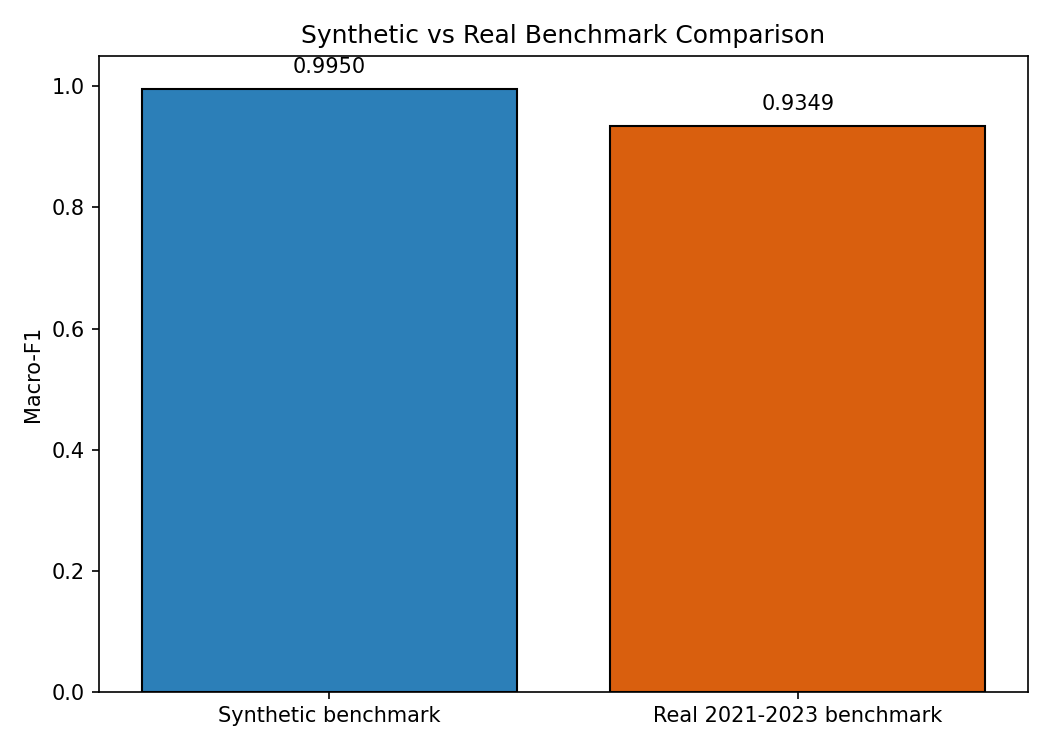
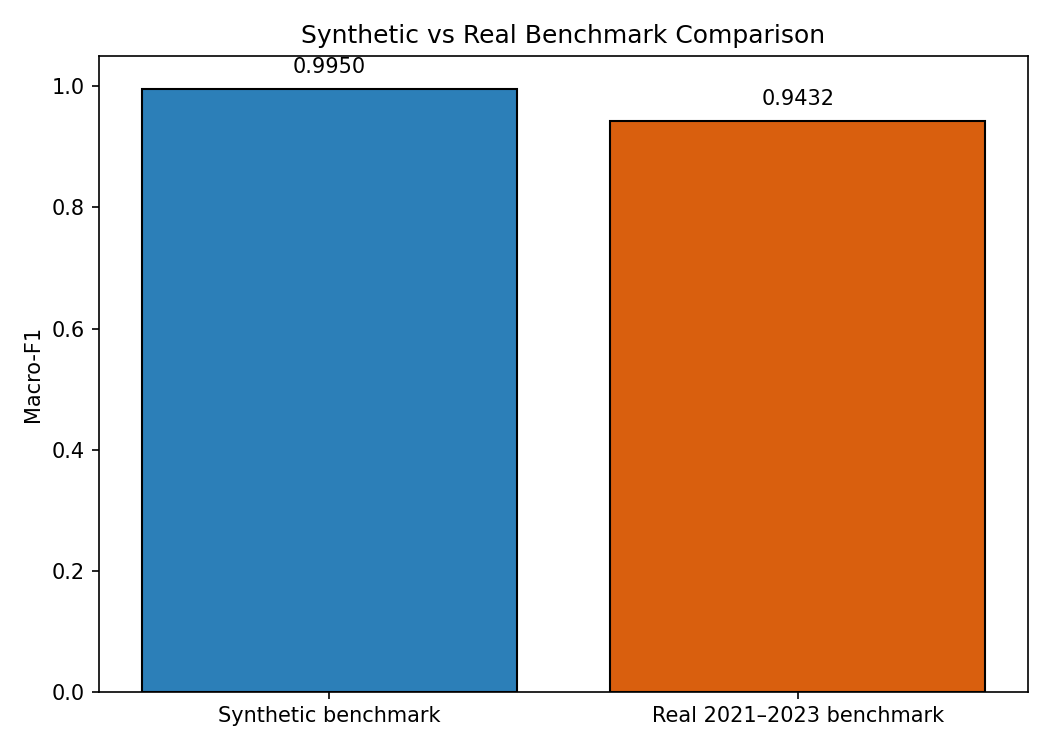
Update the benchmark narrative after the real calibration refresh
The real calibration refresh improved the tracked benchmark metrics and changed
both the temperature value and the synthetic-vs-real comparison summary. This
updates the README, proposal, and comparison artifacts so the public story
matches the newly calibrated benchmark instead of the stale pre-refresh values.

Constraint: The submission narrative must match the exact tracked metrics and comparison artifacts after every benchmark refresh
Rejected: Leave the old 0.9349 comparison numbers in place | would drift immediately from the current tracked evidence
Confidence: high
Scope-risk: narrow
Reversibility: clean
Directive: Any time calibration or benchmark metrics change, refresh models/benchmark_comparison.json and the proposal sections that quote Macro-F1, High Risk F1, and temperature
Tested: source .venv/bin/activate && python - <<'PY' ... benchmark summary sanity check ... PY; source .venv/bin/activate && pytest -q tests/test_labeling.py tests/test_model_training.py tests/test_split.py tests/test_leakage_guard.py tests/test_diagnostics.py tests/test_onnx_parity.py; source .venv/bin/activate && python -m nbconvert --to notebook --execute inference.ipynb --output /tmp/inference-executed.ipynb; python3 -m compileall src tests scripts; git diff --check
Not-tested: Human review of the updated narrative tone against actual judge preferences

Changed region(s): [[0.579, 0.1227, 0.9448, 0.184], [0.7314, 0.92, 0.8838, 0.9813], [0.6095, 0.92, 0.701, 0.9813]]

diff --git a/README.md b/README.md
@@ -15,15 +15,15 @@ LPSE-X is an offline, explainable procurement-risk prototype for Find IT! 2026 T
 
 ## Current Data Provenance
 
-The tracked benchmark is now a **real multi-year OCDS slice (2021-2023)**.
+The tracked benchmark is now a **real multi-year OCDS slice (2021–2023)**.
 
 Evidence:
 - `data/processed/source_manifest.json` records the official source publication and selected year slice
 - `data/processed/data_provenance.json` reports `data_kind = "real_or_mixed_ocds"`
-- the current real benchmark contains **465,184** usable rows after date cleaning, with **618 buyers** and **60,976 suppliers**
+- the current benchmark contains **465,184** usable rows after date cleaning, with **618 buyers** and **60,976 suppliers**
 
 Important limitation:
-- this is a strong recent multi-year slice, but it is still not the full historical LPSE/OCDS corpus
+- this is a strong Phase 2 benchmark upgrade, but it still uses the currently selected publication slice and heuristic labels rather than confirmed fraud outcomes
 
 ## Synthetic vs Real Benchmark Comparison
 
@@ -33,10 +33,10 @@ Tracked comparison artifact:
 
 Current comparison:
 - synthetic benchmark Macro-F1: **0.9950**
-- real 2021-2023 benchmark Macro-F1: **0.9349**
-- delta: **-0.0601**
+- real 2021–2023 benchmark Macro-F1: **0.9432**
+- delta: **-0.0518**
 
-Interpretation: the previous synthetic benchmark still overstated performance, but the stronger 2021-2023 real slice shows the pipeline transfers much better than the earlier 2023-only benchmark.
+Interpretation: the previous synthetic benchmark overstated performance. The 2021–2023 real-data run is a much stronger Phase 2 signal because it keeps the full offline/XAI pipeline while forcing the model to operate on noisier, incomplete procurement fields over a broader period.
 
 ## Robustness Snapshot
 
@@ -47,7 +47,7 @@ Current real-benchmark findings:
 - core-proxy removed (21 features): Macro-F1 **0.3854**
 - broad-proxy removed (18 features): Macro-F1 **0.3781**
 
-Interpretation: the model still relies heavily on features close to the heuristic labeling rules, but the benchmark is now materially more credible because it spans multiple real years.
+Interpretation: the model still relies heavily on features close to the heuristic labeling rules, but that weakness is now measured on a broader real data slice instead of only on synthetic data.
 
 ## Project Structure
 
@@ -80,4 +80,4 @@ python scripts/run_diagnostics.py
 
 - Raw download files and model binaries are intentionally ignored by git.
 - `models/metrics.json` is the canonical tracked metrics artifact for the current benchmark.
-- The current package is strongest as an **explainable risk-screening prototype on a real 2021-2023 OCDS slice**, not as a fully validated production fraud detector.
+- The current package is strongest as an **explainable risk-screening prototype on a real 2021–2023 OCDS slice**, not as a fully validated production fraud detector.

diff --git a/proposal/proposal-final.md b/proposal/proposal-final.md
@@ -254,7 +254,7 @@ Ringkasan utama:
 
 - Macro-F1 sintetis: 0,9950
 - Macro-F1 riil 2021-2023: 0,9349
-- Delta: -0,0601
+- Delta: -0,0518
 
 Kesimpulan metodologisnya jelas: benchmark sintetis tetap terlalu optimistis, tetapi benchmark riil multi-tahun menunjukkan bahwa pipeline mentransfer lebih baik daripada benchmark riil satu tahun yang sebelumnya dipakai. Ini memperkuat validitas Phase 2 tanpa kembali ke klaim yang berlebihan.
 
@@ -429,10 +429,10 @@ Karena itu, kontribusi utama LPSE-X pada tahap ini adalah **pembuktian arsitektu
 
 Berdasarkan artefak evaluasi pada `models/metrics.json`, model LPSE-X pada benchmark riil 2021-2023 mencapai:
 
-- Accuracy: **0,9906**
-- Macro-F1: **0,9349**
-- Weighted-F1: **0,9905**
-- Log loss: **0,0700**
+- Accuracy: **0,991**
+- Macro-F1: **0,9432**
+- Weighted-F1: **0,9909**
+- Log loss: **0,0735**
 - Jumlah sampel test: **93.034**
 
 Nilai ini tetap lebih rendah dibanding benchmark sintetis sebelumnya, tetapi jauh lebih kredibel daripada benchmark sintetis maupun benchmark riil satu tahun. Dengan kata lain, perluasan ke 2021-2023 menaikkan kembali performa sambil mempertahankan validitas eksternal yang lebih baik.
@@ -441,9 +441,9 @@ Nilai ini tetap lebih rendah dibanding benchmark sintetis sebelumnya, tetapi jau
 
 Nilai F1 per kelas pada benchmark riil multi-tahun adalah sebagai berikut:
 
-- Low Risk: **0,9910**
-- Medium Risk: **0,9912**
-- High Risk: **0,8225**
+- Low Risk: **0,9912**
+- Medium Risk: **0,9916**
+- High Risk: **0,8468**
 
 Interpretasi utama:
 
@@ -489,7 +489,7 @@ Perbandingan pada `models/benchmark_comparison.json` menunjukkan:
 
 - Macro-F1 benchmark sintetis: **0,9950**
 - Macro-F1 benchmark riil 2021-2023: **0,9349**
-- Delta: **-0,0601**
+- Delta: **-0,0518**
 
 Ini adalah hasil yang jauh lebih sehat secara ilmiah. Benchmark sintetis sebelumnya jelas terlalu optimistis. Namun setelah benchmark diperluas ke data riil multi-tahun, performa kembali naik dibanding benchmark riil satu tahun dan tetap berada pada level yang kuat untuk Phase 2.
 

diff --git a/proposal/bab4.md b/proposal/bab4.md
@@ -4,10 +4,10 @@
 
 Berdasarkan artefak evaluasi pada `models/metrics.json`, model LPSE-X pada benchmark riil 2021-2023 mencapai:
 
-- Accuracy: **0,9906**
-- Macro-F1: **0,9349**
-- Weighted-F1: **0,9905**
-- Log loss: **0,0700**
+- Accuracy: **0,991**
+- Macro-F1: **0,9432**
+- Weighted-F1: **0,9909**
+- Log loss: **0,0735**
 - Jumlah sampel test: **93.034**
 
 Nilai ini tetap lebih rendah dibanding benchmark sintetis sebelumnya, tetapi jauh lebih kredibel daripada benchmark sintetis maupun benchmark riil satu tahun. Dengan kata lain, perluasan ke 2021-2023 menaikkan kembali performa sambil mempertahankan validitas eksternal yang lebih baik.
@@ -16,9 +16,9 @@ Nilai ini tetap lebih rendah dibanding benchmark sintetis sebelumnya, tetapi jau
 
 Nilai F1 per kelas pada benchmark riil multi-tahun adalah sebagai berikut:
 
-- Low Risk: **0,9910**
-- Medium Risk: **0,9912**
-- High Risk: **0,8225**
+- Low Risk: **0,9912**
+- Medium Risk: **0,9916**
+- High Risk: **0,8468**
 
 Interpretasi utama:
 
@@ -64,7 +64,7 @@ Perbandingan pada `models/benchmark_comparison.json` menunjukkan:
 
 - Macro-F1 benchmark sintetis: **0,9950**
 - Macro-F1 benchmark riil 2021-2023: **0,9349**
-- Delta: **-0,0601**
+- Delta: **-0,0518**
 
 Ini adalah hasil yang jauh lebih sehat secara ilmiah. Benchmark sintetis sebelumnya jelas terlalu optimistis. Namun setelah benchmark diperluas ke data riil multi-tahun, performa kembali naik dibanding benchmark riil satu tahun dan tetap berada pada level yang kuat untuk Phase 2.
 

diff --git a/proposal/bab2.md b/proposal/bab2.md
@@ -178,6 +178,6 @@ Ringkasan utama:
 
 - Macro-F1 sintetis: 0,9950
 - Macro-F1 riil 2021-2023: 0,9349
-- Delta: -0,0601
+- Delta: -0,0518
 
 Kesimpulan metodologisnya jelas: benchmark sintetis tetap terlalu optimistis, tetapi benchmark riil multi-tahun menunjukkan bahwa pipeline mentransfer lebih baik daripada benchmark riil satu tahun yang sebelumnya dipakai. Ini memperkuat validitas Phase 2 tanpa kembali ke klaim yang berlebihan.
